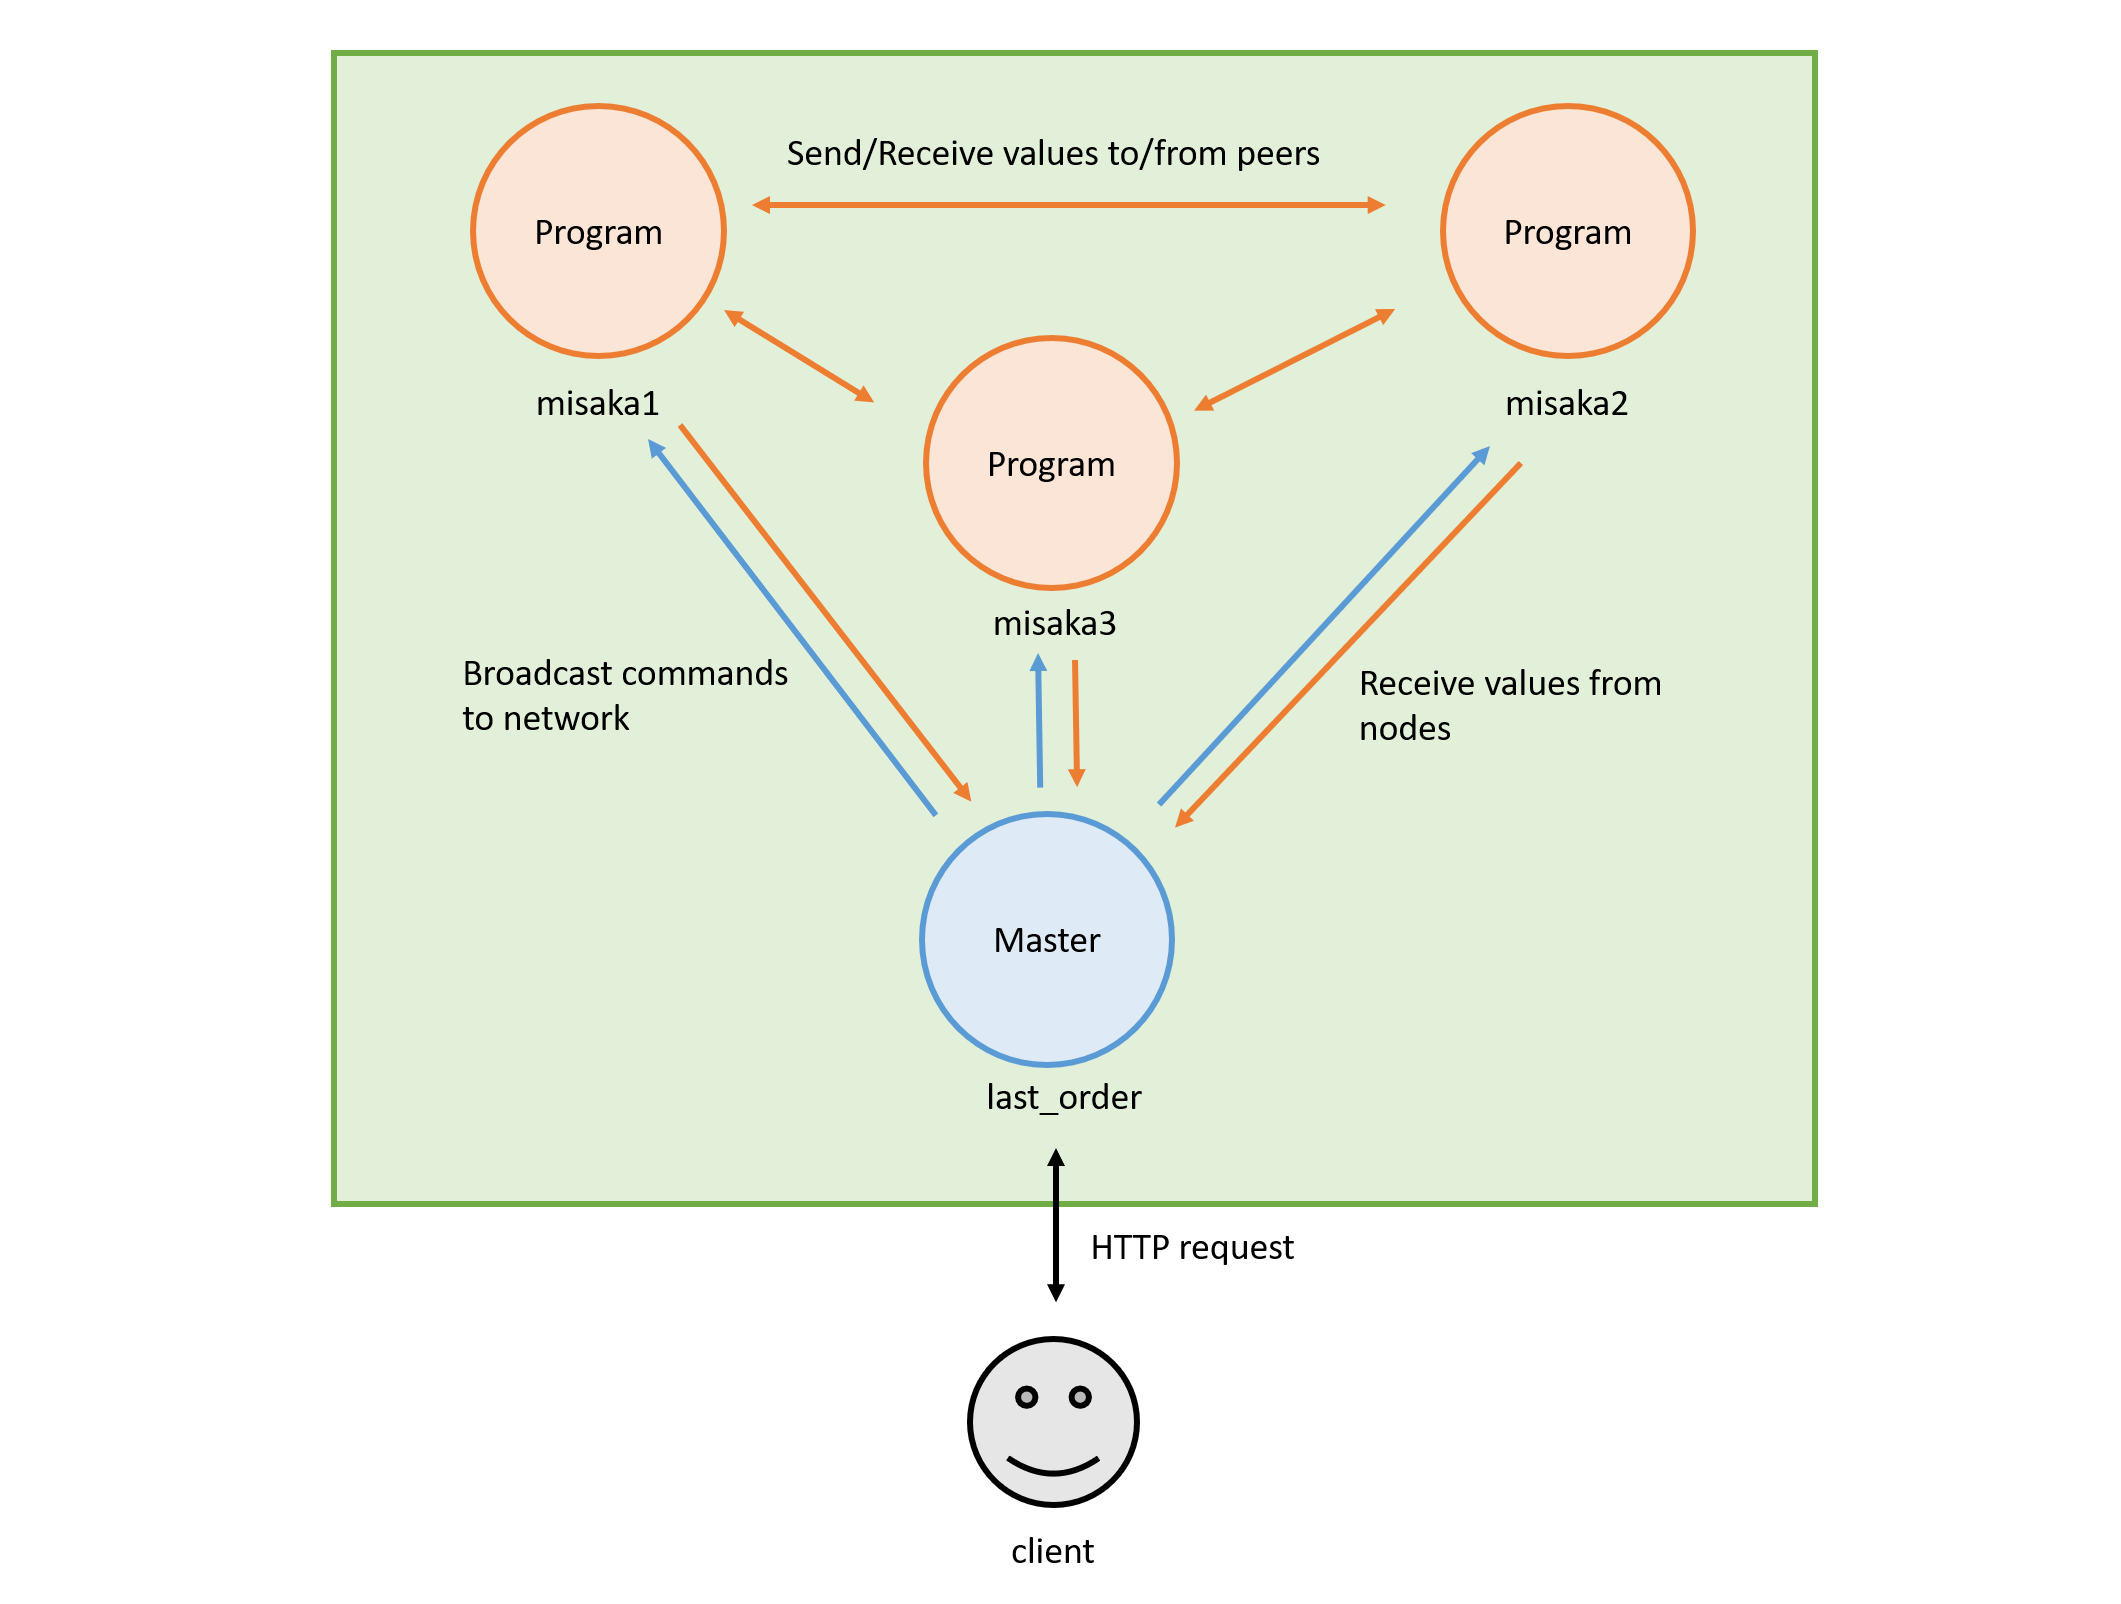
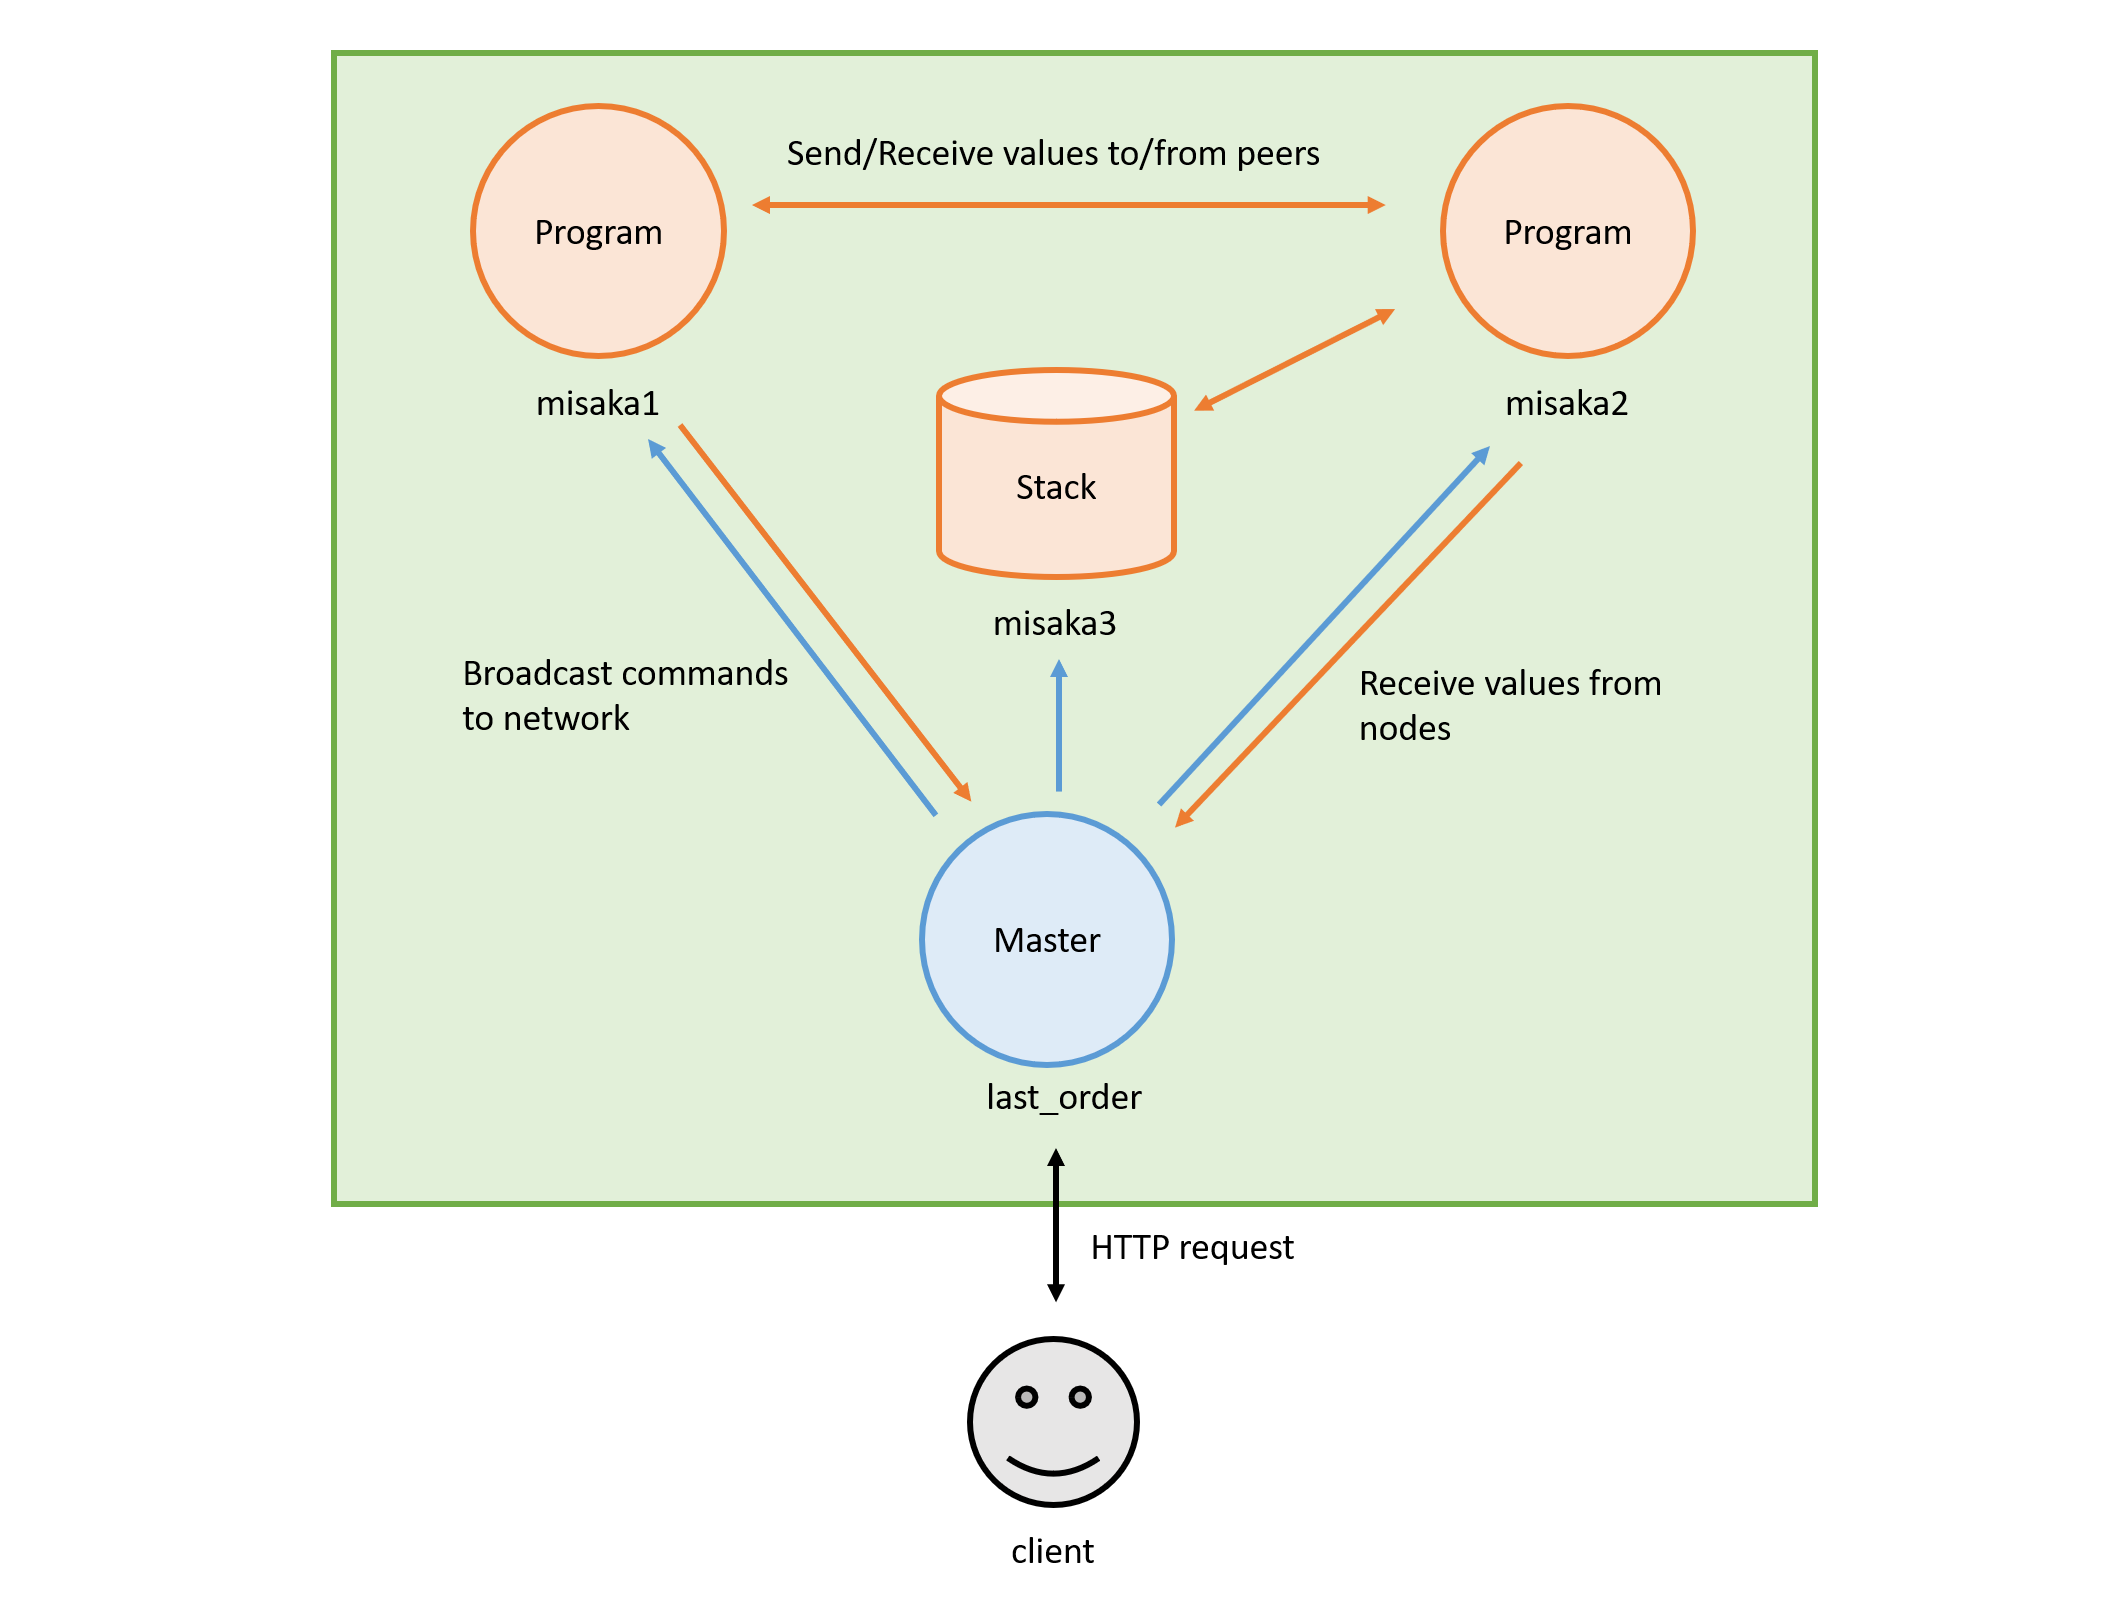
Update readme and diagram

diff --git a/README.md b/README.md
@@ -2,19 +2,31 @@
 
 TIS-100-like distributed computing
 
+## What is This?
+Misaka Net is a distributed computing system inspired by both the assembly programing game, TIS-100,
+and the Misaka Network from the Raildex franchise.
+
+A Misaka Net is comprised of an arbitrary number of program and stack nodes managed by one master node
+which can all communicate with each other. The network does computations using program nodes
+which are loaded with assembly programs resembling those found in TIS-100 and run independently on loop.
+Program nodes can send data to other program nodes, push/pop data to/from stack nodes, and send output data
+to the master node. The network itself can be interacted with by the client through the master node
+which broadcasts commands to all nodes and manages IO from the client.
+
 ## Setup
 
-### Local
+### Single node locally
 
-Set proper environment variables and build and run:
+A single node can be setup by setting proper environment variables and building and running:
 
     make
     ./app
 
-### Deploy with Docker Compose
+### Deploy Network with Docker Compose
 
-The provided compose file sets up a master node and two program nodes
-that pass an integer back-and-forth, adding 1 to it each time.
+The provided compose file sets up an example network with
+two program nodes that add and pass an integer back-and-forth
+with one of the program nodes also pushing and popping the value to and from a stack node.
 
 The network can be built and deployed with:
 
@@ -47,6 +59,6 @@ will reset the network's execution and update the specified node:
     -d "program=<PROGRAM SOURCE>&targetURI=<TARGET URI>" \
     <DOCKER MACHINE IP>:8000/load
 
-Date can be sent and retrieved from the network through:
+The client can send and retrieve data through the master node:
 
     # TODO
